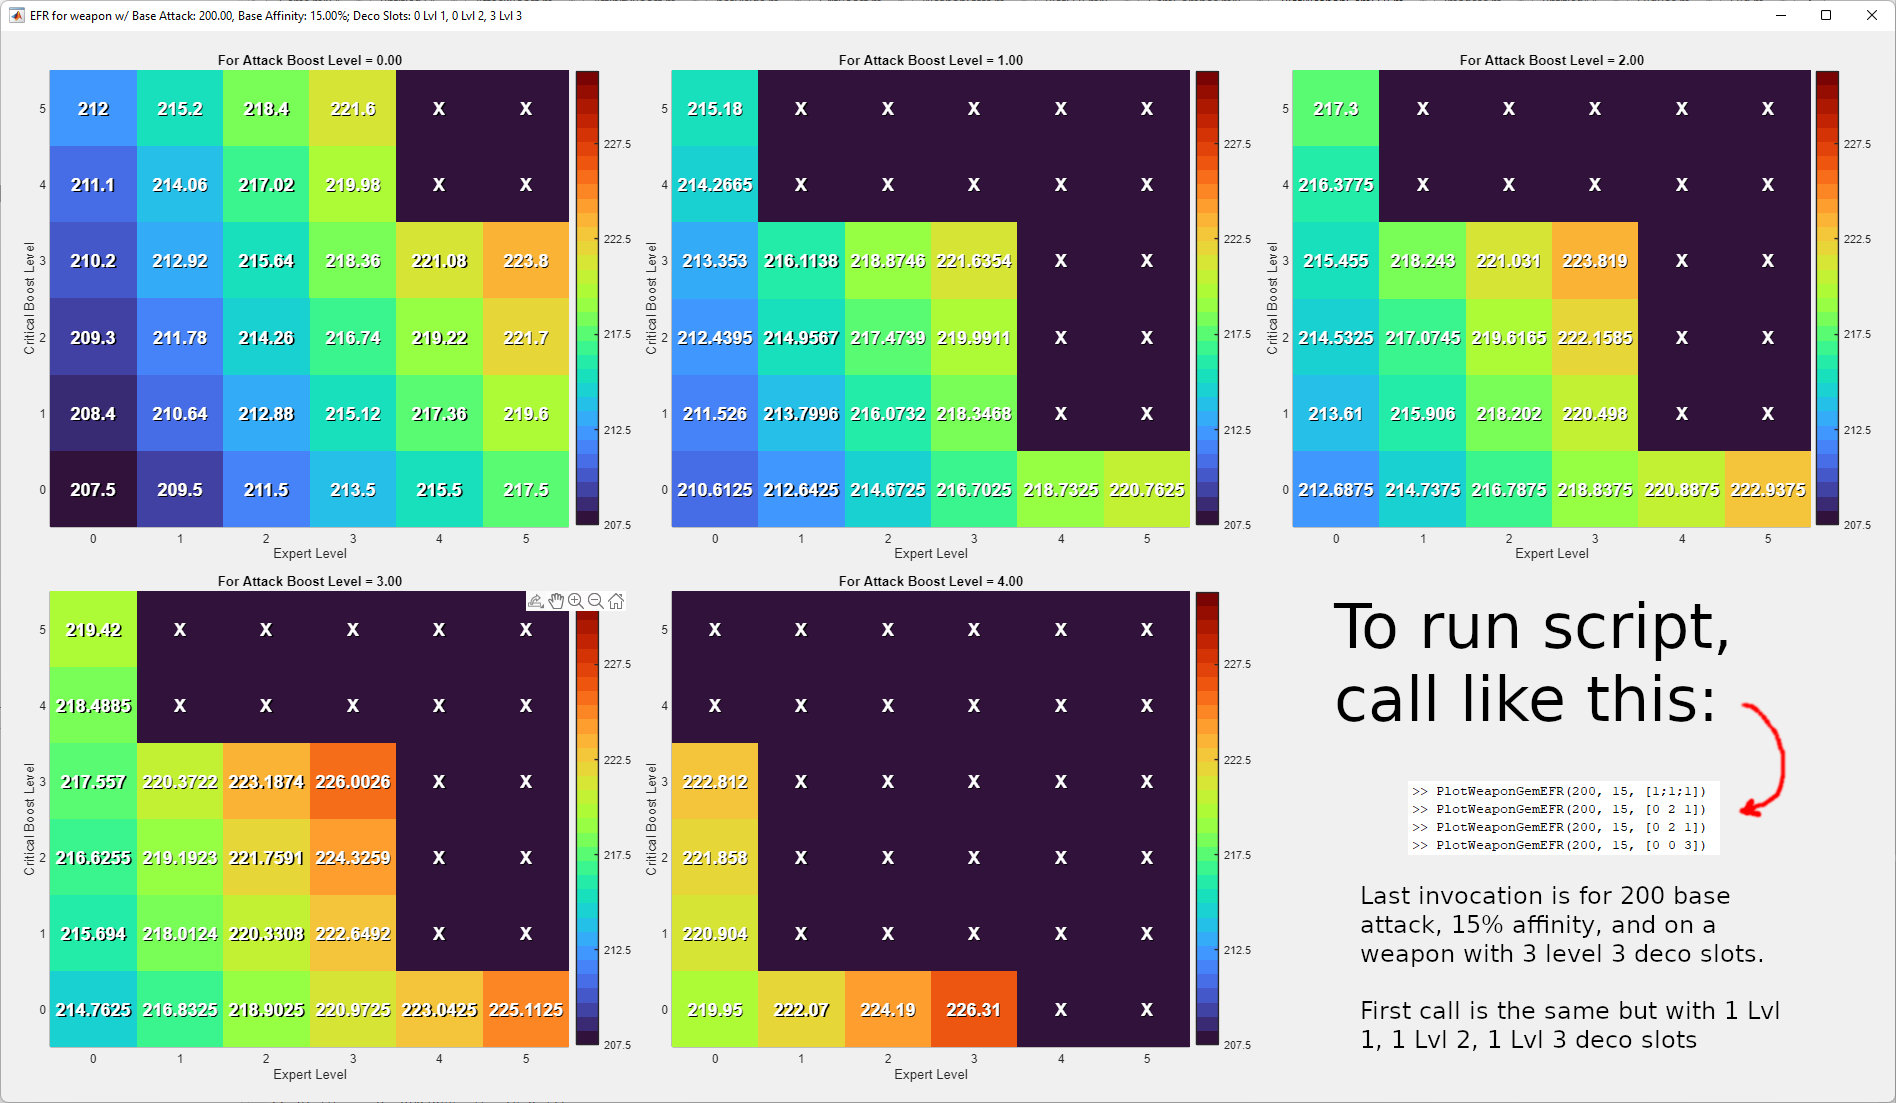
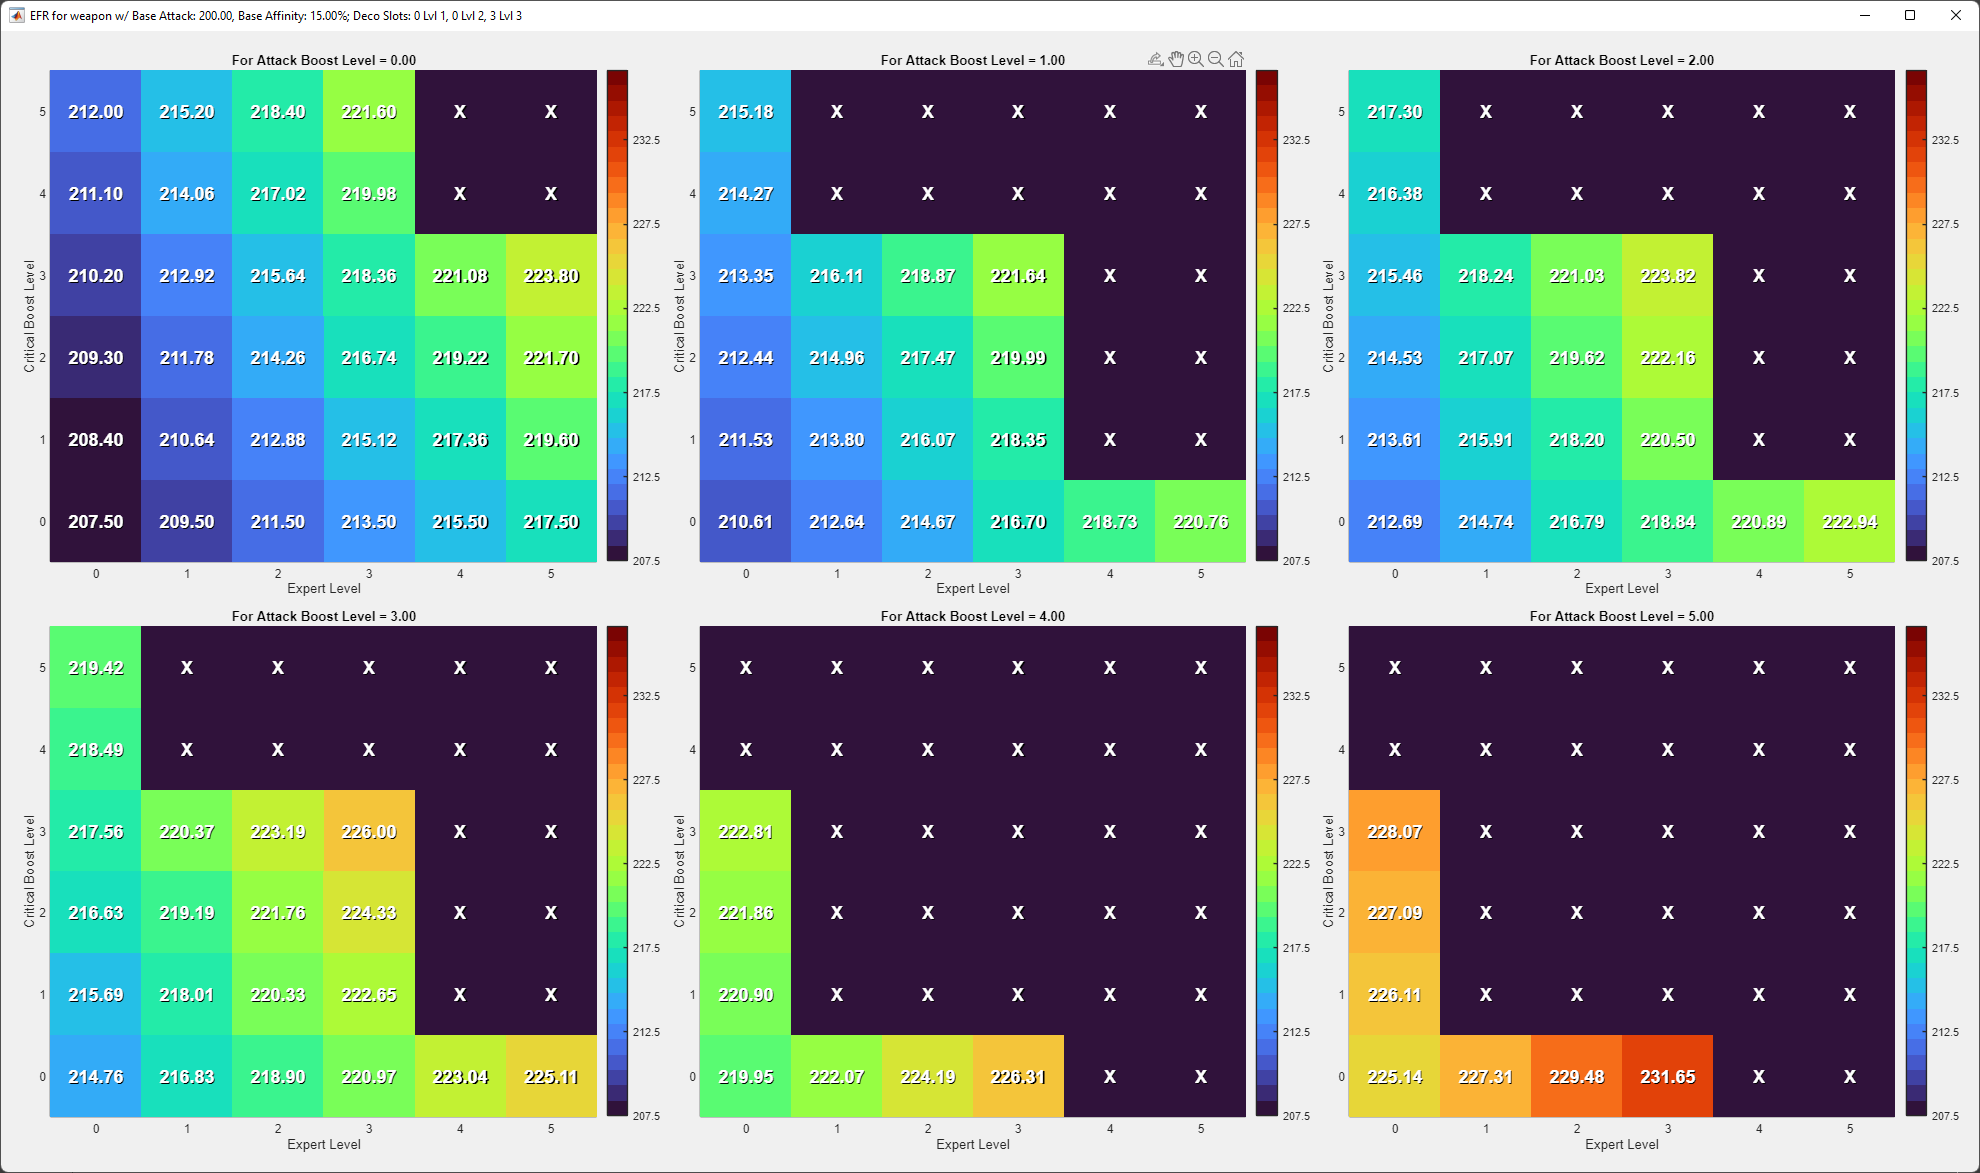
Restrict EFR label to 2 decimal places

diff --git a/PlotWeaponGemEFR.m b/PlotWeaponGemEFR.m
@@ -87,7 +87,7 @@ for idx = 1:nFrames
             value = EFR(row, col);
 
             if value > 0
-                disptxt = num2str(value);
+                disptxt = sprintf('%.2f', value);
             else
                 disptxt = 'X';
             end
